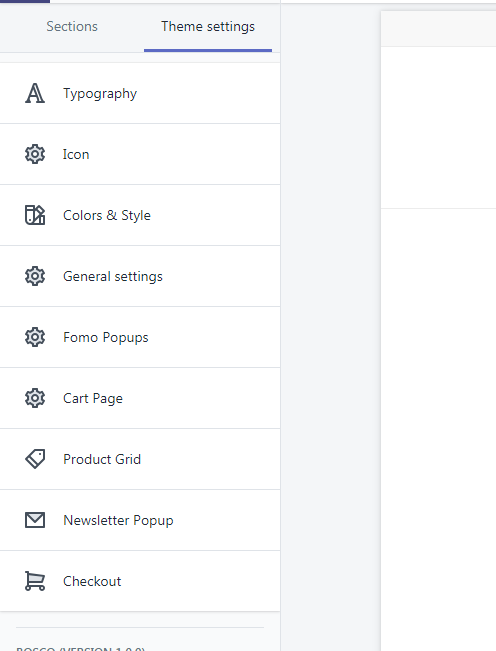
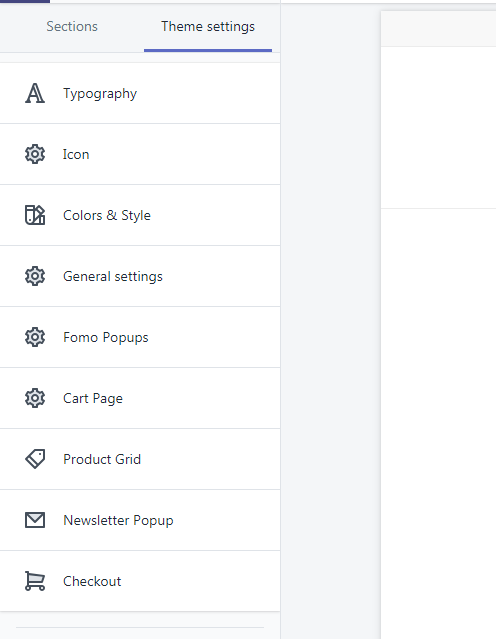
Updates assets/setting-01.png
Auto commit by GitBook Editor

diff --git a/theme-settings.md b/theme-settings.md
@@ -2,7 +2,7 @@ Think of theme settings like backbone of a theme.
 
 From your Shopify admin, go to **Online Store &gt; Themes. **Find the theme that you want to edit and click **Customize &gt; Theme settings**
 
-## ![](/assets/setting-01.png)
+![](/assets/setting-01.png)
 
 ## Typography
 
